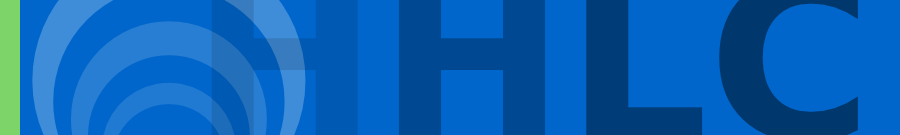
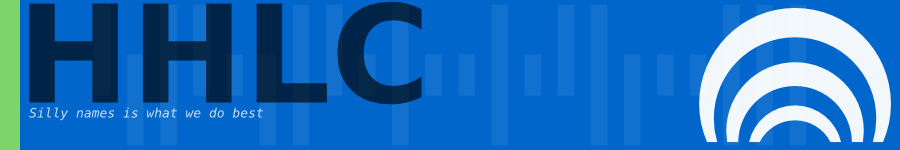
Changes to the header and stylesheet.

diff --git a/public/stylesheets/frontend.css b/public/stylesheets/frontend.css
@@ -1,3 +1,12 @@
+/*	hhlc.eish! web application CSS
+
+	Homepage: http://hhlinuxclub.org/
+	Repository: http://github.com/jcxplorer/hhlc/tree/master
+*/
+
+
+/* Begin CSS 3 web font descriptions
+   See: http://www.w3.org/TR/css3-webfonts/#font-descriptions */
 @font-face {
 	font-family: "Bitstream Vera Sans Bold";
 	src: url("../fonts/bitstream/VeraBd.ttf");
@@ -27,7 +36,11 @@
 	font-family: "Bitstream Vera Sans";
 	src: url("../fonts/bitstream/Vera.ttf");
 }
+/* End font descriptions */
 
+
+
+/* Everything else from now on... */
 body {
 	margin: 0px;
 	padding: 0px;
@@ -45,9 +58,9 @@ body {
 }
 
 #header {
-	height: 29px;
+	height: 21px;
 	background: #0066cb url('../images/header.png') no-repeat 0px 0px;
-	padding-top:115px;
+	padding-top: 126px;
 }
 
 #header h1 {
@@ -55,8 +68,8 @@ body {
 }
 
 #navigation {
-	background: #00264B url('../images/nav_left_green.png') repeat-y 0px 0px;;
-	padding: 5px 20px 5px 0px;
+	background: none;
+	padding: 0px 20px 0px 0px;
 	text-align: left;
 }
 
@@ -66,24 +79,31 @@ body {
 }
 
 #navigation li {
-	background: #00264B;
+	background: none;
 	font-family: Georgia, "Bitstream Vera Serif", serif;
 	font-weight: bold;
 	font-size: 12pt;
 	display: inline;
-	padding: 5px 10px;
 }
 
 #navigation a:link,
 #navigation a:visited {
 	text-decoration: none;
-	color: #f1f1f1;
+	padding: 2px 10px;
+	color: #ffffff;
+}
+
+#navigation .active_link a:link,
+#navigation .active_link a:visited {
+	text-decoration: none;
+	color: #00264b;
 }
 
 #navigation a:hover,
 #navigation ul li:hover,
 #navigation .active_link {
-	background: #0066cb;
+	background: #ffffff;
+	color: #00264b;
 }
 
 #sidebars {
@@ -122,9 +142,7 @@ body {
 
 #content {
 	padding: 20px;
-	margin-right: 0px;
-	margin-top: 7px;
-	margin-bottom:7px;
+	margin: 0;
 	background: #ffffff;
 	float: left;
 	width: 860px;
@@ -178,7 +196,7 @@ body {
 
 .sidebar {	
 	float: right;
-	background-color: #f6efe0;
+	background: #f6efe0;
 	border: 1px solid #eee4cb;
 	width: 180px;
 	margin-bottom: 20px;
@@ -200,7 +218,7 @@ td {
 }
 
 th {
-	background-color: #f6efe0;
+	background: #f6efe0;
 	border: 1px solid #eee4cb;
 	padding: 5px 10px;
 	color: #282828;
@@ -218,7 +236,7 @@ th {
 	border: 3px solid #400000;
 	padding: 0px 20px;
 	margin-bottom: 20px;
-	background-color: #8C2A2A;
+	background: #8C2A2A;
 	color: #ffffff;
 }
 
@@ -250,3 +268,5 @@ dd {
 img {
 	border: none;
 }
+
+/* End everything else */
